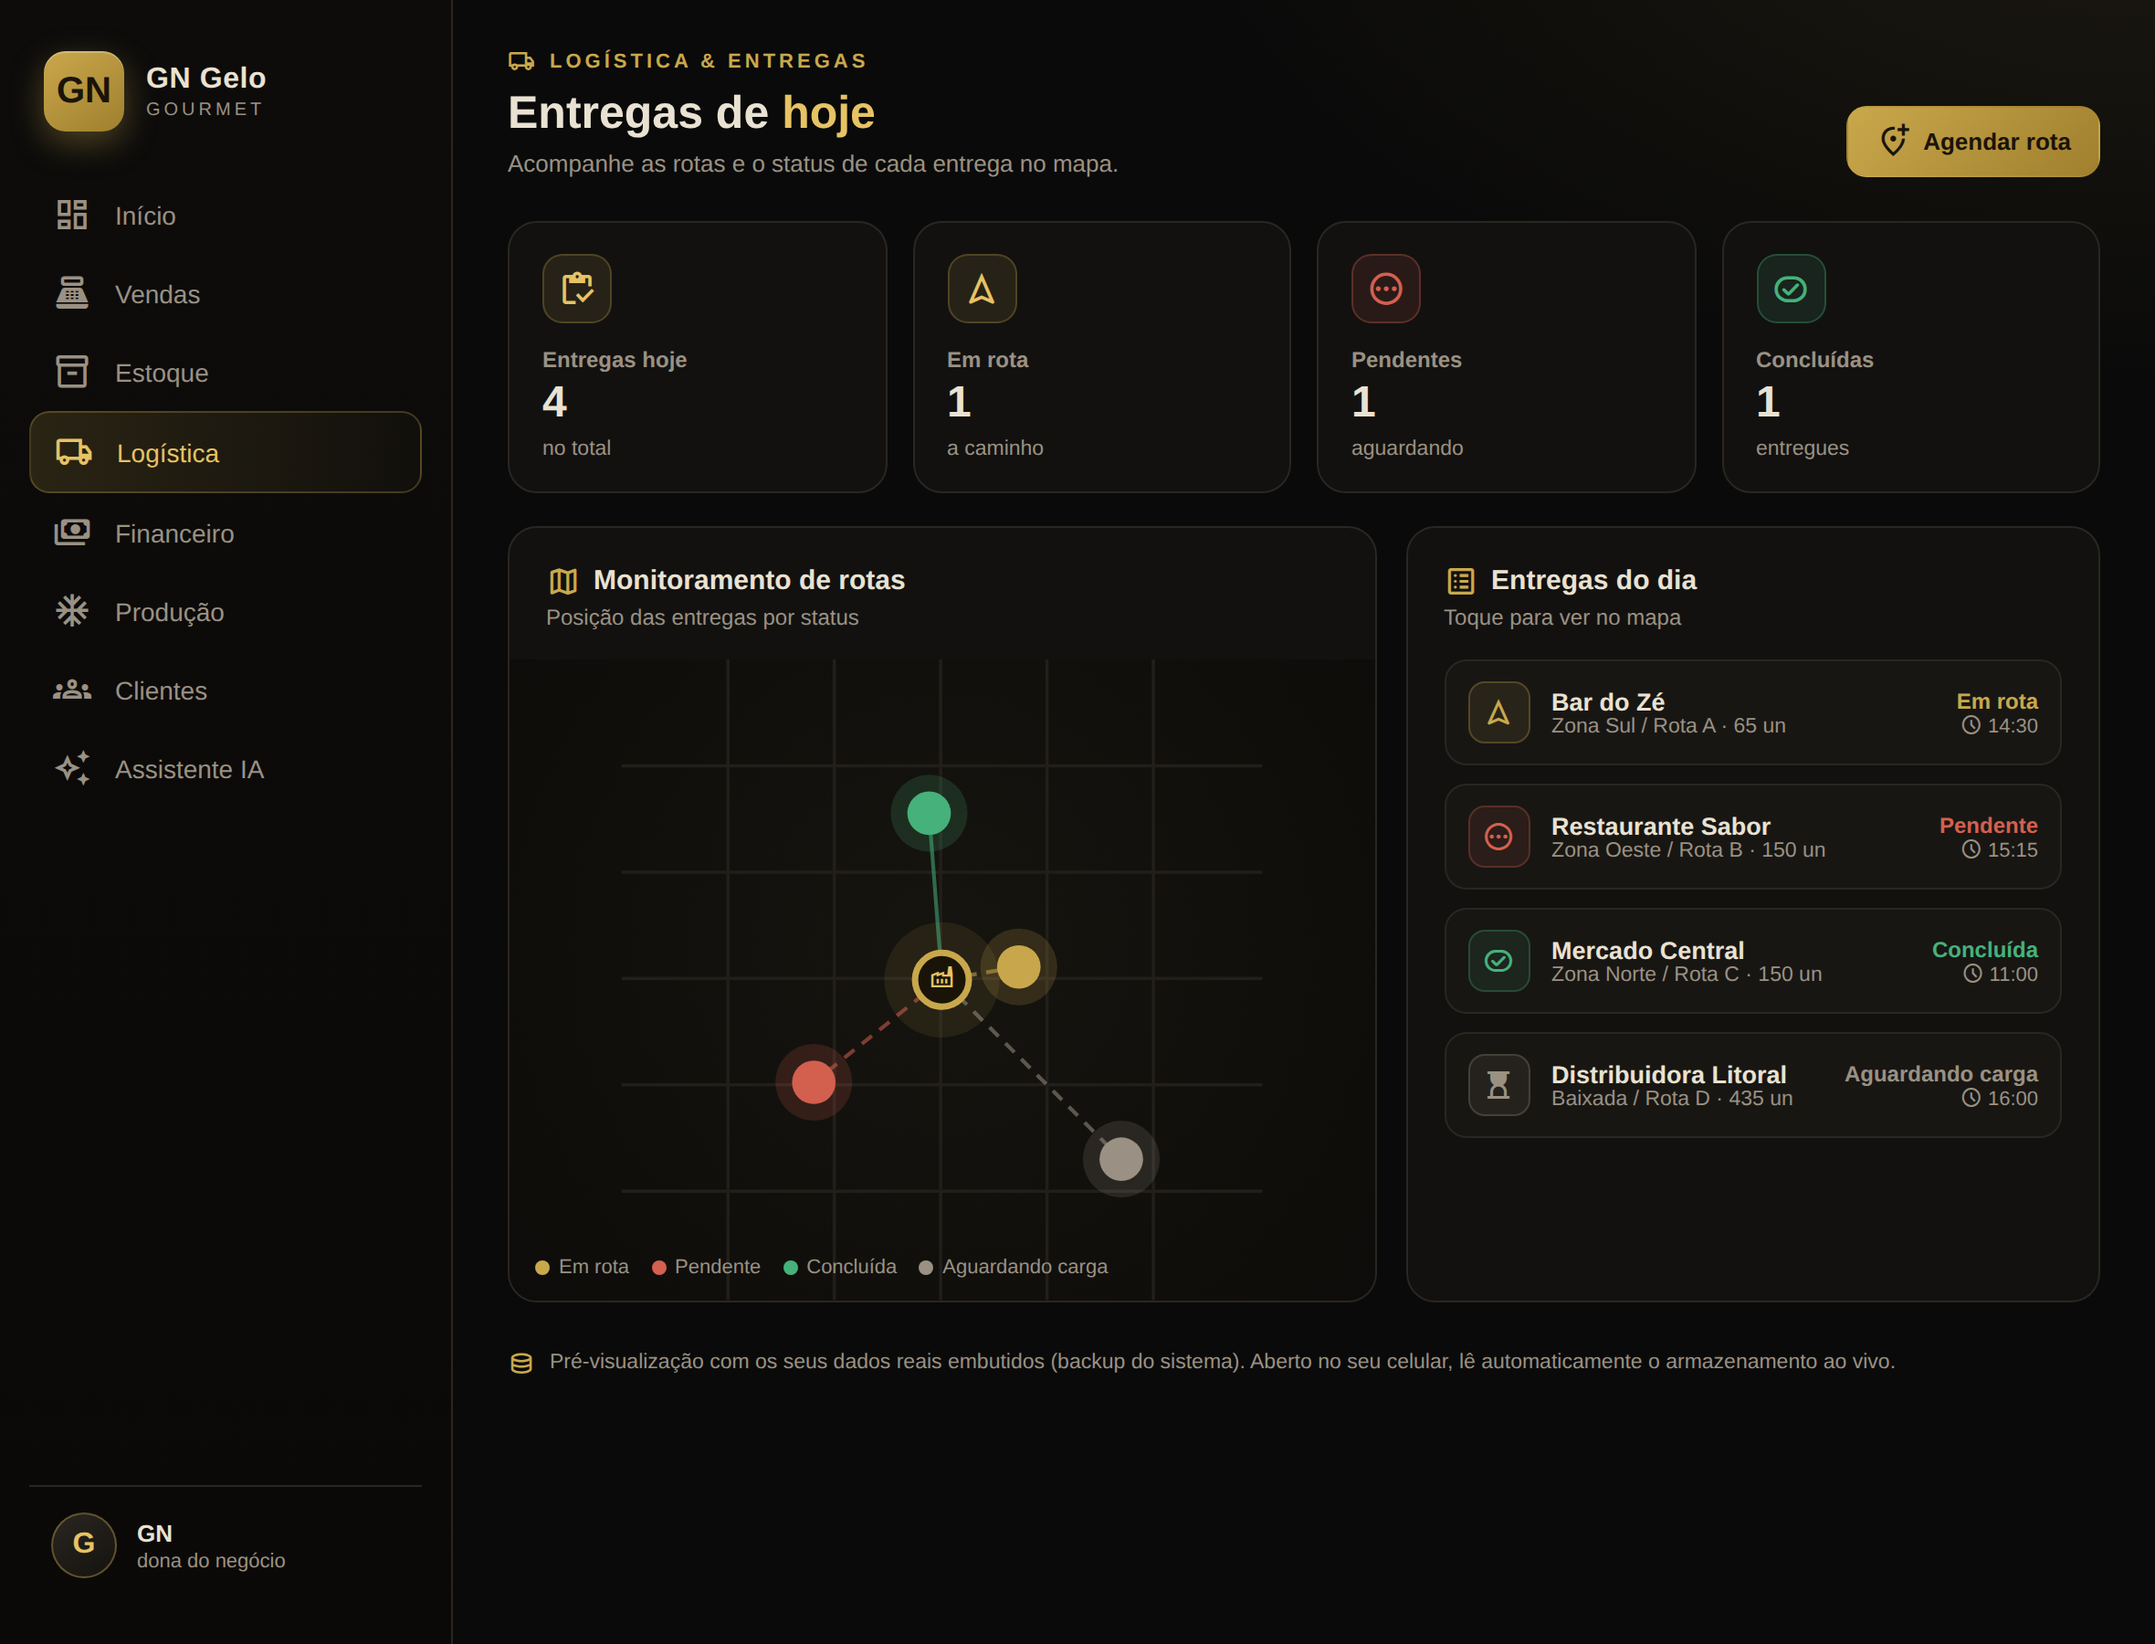
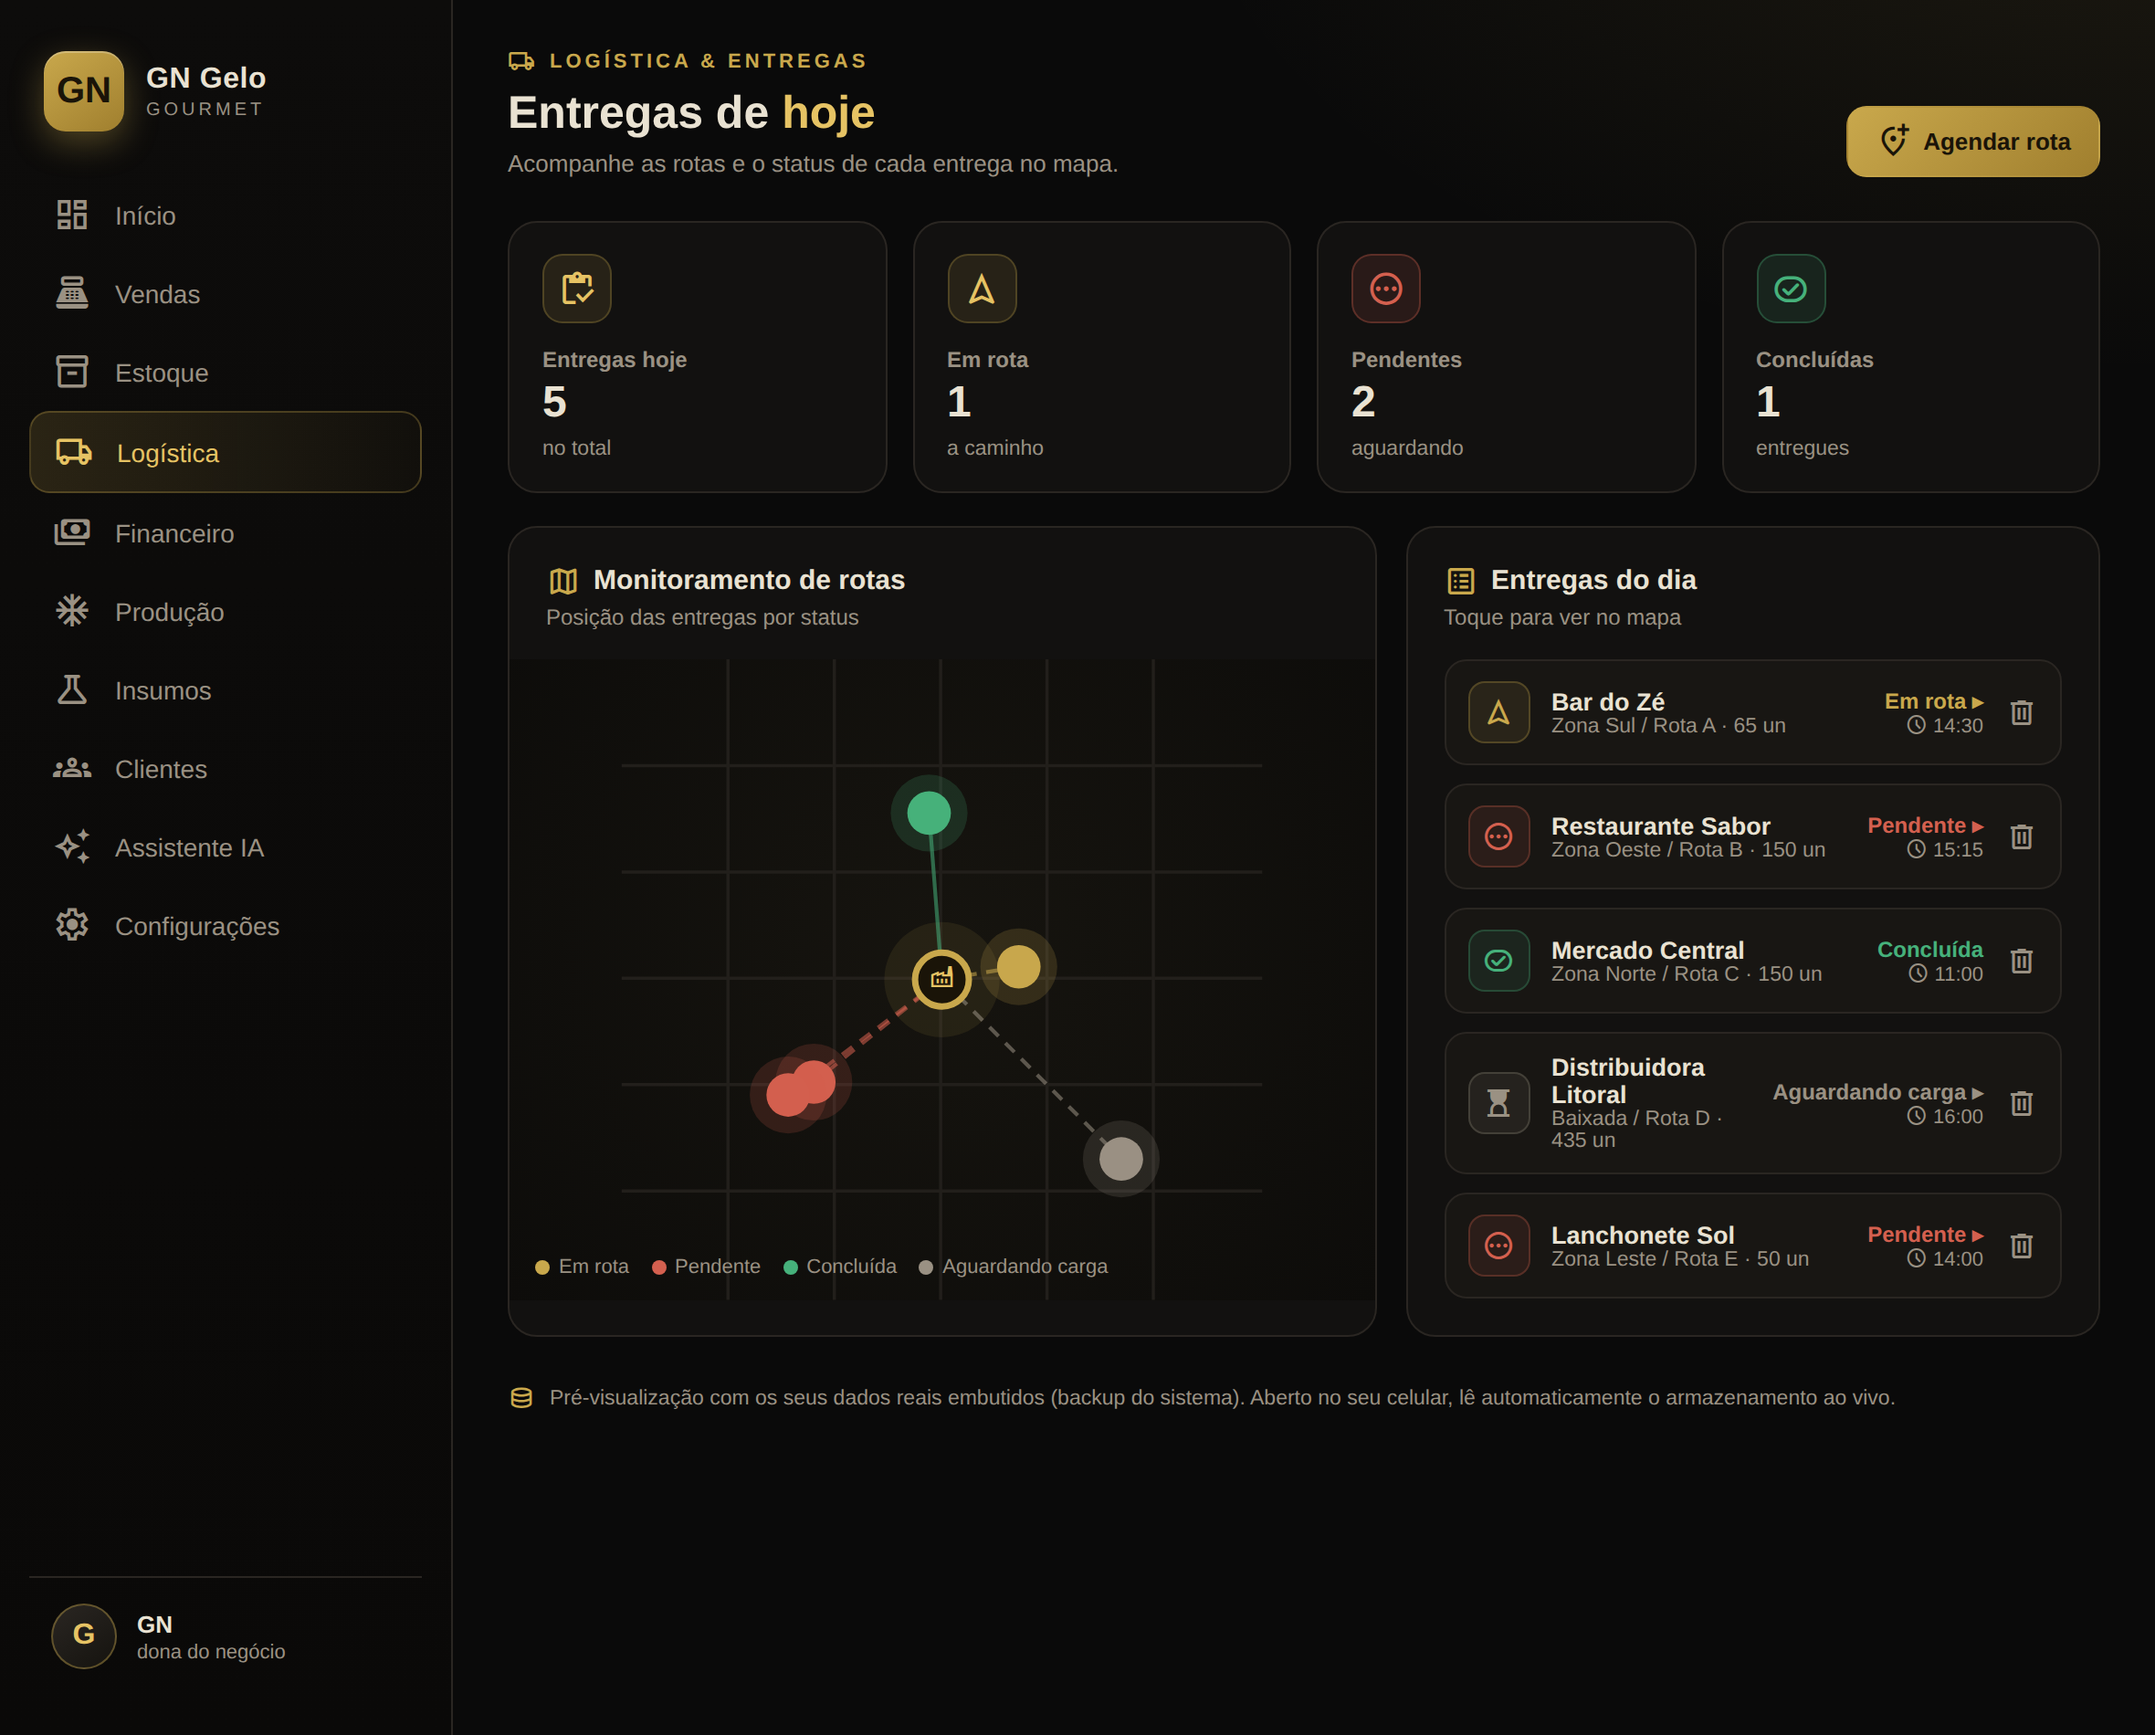
Logistica: agendar entrega, avancar status (tocando) e apagar - de verdade
- Modal Agendar entrega (cliente, rota, ETA, itens, status) grava em gng_entregas
  e aparece no mapa.
- Tocar no status avanca: Aguardando carga -> Pendente -> Em rota -> Concluida.
- Lixeira para apagar entrega.
- Entrega e so logistica (nao baixa estoque, pois a venda ja baixa - regra 8).

Claude-Session: https://claude.ai/code/session_01RocrFdSgqpqjfRy7x3VDmm

diff --git a/preview-dashboard-premium.html b/preview-dashboard-premium.html
@@ -329,7 +329,7 @@
         <h1>Entregas de <b>hoje</b></h1>
         <p>Acompanhe as rotas e o status de cada entrega no mapa.</p>
       </div>
-      <div class="chip" style="background:linear-gradient(135deg,var(--gold),#a07f2e);color:#1a1408;border-color:transparent"><span class="sym" style="color:#1a1408">add_location_alt</span> Agendar rota</div>
+      <div class="chip" style="background:linear-gradient(135deg,var(--gold),#a07f2e);color:#1a1408;border-color:transparent;cursor:pointer" onclick="abrirEntrega()"><span class="sym" style="color:#1a1408">add_location_alt</span> Agendar rota</div>
     </div>
     <div class="kpis">
       <div class="kpi"><div class="ic"><span class="sym">inventory</span></div><div class="k-lbl">Entregas hoje</div><div class="k-val" id="lg-tot">—</div><div class="k-foot">no total</div></div>
@@ -594,6 +594,24 @@
       </div>
     </div>
     <div class="modal-foot"><button class="btn-gold" onclick="salvarInsumo()">Salvar compra</button></div>
+  </div>
+</div>
+
+<!-- ===== MODAL: NOVA ENTREGA ===== -->
+<div class="modal-bg" id="modal-entrega" style="display:none">
+  <div class="modal">
+    <div class="modal-head"><h3>Agendar entrega</h3><span class="sym x" onclick="fecharModal()">close</span></div>
+    <div class="modal-body">
+      <div class="f-row"><label>Cliente</label><input class="f-in" id="e-cliente" placeholder="Ex: Bar do Zé"></div>
+      <div class="f-row"><label>Rota / Bairro</label><input class="f-in" id="e-rota" placeholder="Ex: Zona Sul / Rota A"></div>
+      <div class="f-grid2">
+        <div class="f-row"><label>Horário (ETA)</label><input class="f-in" id="e-eta" placeholder="Ex: 14:30" value="14:00"></div>
+        <div class="f-row"><label>Itens (un)</label><input type="number" class="f-in" id="e-itens" min="1" value="50"></div>
+      </div>
+      <div class="f-row"><label>Status</label>
+        <select class="f-in" id="e-status"><option>Aguardando carga</option><option>Pendente</option><option>Em rota</option><option>Concluída</option></select></div>
+    </div>
+    <div class="modal-foot"><button class="btn-gold" onclick="salvarEntrega()">Agendar entrega</button></div>
   </div>
 </div>
 
@@ -1023,6 +1041,7 @@ function renderLogistica(){
    </div>`;
   document.getElementById("lg-list").innerHTML=ent.map(e=>{
     const cor=ST_COR[e.status]||"#888";
+    const prox=e.status!=="Concluída";
     return `<div style="display:flex;align-items:center;gap:12px;padding:11px 12px;border:1px solid var(--line);border-radius:12px;background:var(--panel2)">
       <span style="width:34px;height:34px;border-radius:9px;display:grid;place-items:center;background:${cor}1a;border:1px solid ${cor}44;color:${cor}"><span class="sym" style="font-size:18px">${ST_IC[e.status]||'place'}</span></span>
       <div style="flex:1;min-width:0">
@@ -1030,9 +1049,10 @@ function renderLogistica(){
         <div style="font-size:11.5px;color:var(--muted)">${e.rota} · ${e.itens} un</div>
       </div>
       <div style="text-align:right">
-        <div style="font-size:12px;font-weight:700;color:${cor}">${e.status}</div>
+        <div onclick="avancarEntrega('${e.id}')" title="${prox?'Avançar status':'Entregue'}" style="font-size:12px;font-weight:700;color:${cor};cursor:${prox?'pointer':'default'}">${e.status}${prox?' ▸':''}</div>
         <div style="font-size:11px;color:var(--muted)"><span class="sym" style="font-size:12px;vertical-align:-2px">schedule</span> ${e.eta}</div>
-      </div></div>`;
+      </div>
+      ${lixo("delEntrega('"+e.id+"')")}</div>`;
   }).join("");
 }
 
@@ -1299,6 +1319,39 @@ function delGasto(id){
   set("gastos",gastos.filter(x=>x.id!=id)); rerenderAll();
 }
 const lixo=fn=>`<span class="sym" style="font-size:18px;color:var(--muted);cursor:pointer" onclick="${fn}" title="Apagar">delete</span>`;
+
+/* ===== ENTREGA (agendar / avançar status / apagar) ===== */
+const STATUS_ORDER=["Aguardando carga","Pendente","Em rota","Concluída"];
+function abrirEntrega(){
+  document.getElementById("e-cliente").value="";
+  document.getElementById("e-rota").value="";
+  document.getElementById("e-eta").value="14:00";
+  document.getElementById("e-itens").value=50;
+  document.getElementById("e-status").value="Aguardando carga";
+  document.getElementById("modal-entrega").style.display="flex";
+}
+function salvarEntrega(){
+  const cliente=document.getElementById("e-cliente").value.trim();
+  if(!cliente){alert("Informe o cliente.");return;}
+  const ent=get("entregas",null)||SEED.entregas.slice();
+  const n=ent.filter(e=>/^#ORD-\d+$/.test(e.id||"")).length;
+  ent.push({id:"#ORD-"+(8947+n),cliente,rota:document.getElementById("e-rota").value||"Rota a definir",
+    bairro:"",eta:document.getElementById("e-eta").value||"—",status:document.getElementById("e-status").value,
+    itens:+document.getElementById("e-itens").value||0,
+    x:15+Math.round(Math.random()*70),y:15+Math.round(Math.random()*70)});
+  set("entregas",ent); fecharModal(); rerenderAll(); show("logistica");
+}
+function avancarEntrega(id){
+  const ent=get("entregas",null)||SEED.entregas.slice();
+  const e=ent.find(x=>x.id===id); if(!e)return;
+  const i=STATUS_ORDER.indexOf(e.status); e.status=STATUS_ORDER[Math.min(i+1,STATUS_ORDER.length-1)];
+  set("entregas",ent); rerenderAll();
+}
+function delEntrega(id){
+  if(!confirm("Apagar esta entrega?"))return;
+  const ent=get("entregas",null)||SEED.entregas.slice();
+  set("entregas",ent.filter(x=>x.id!==id)); rerenderAll();
+}
 
 /* ===== Navegação entre telas ===== */
 function show(view){
